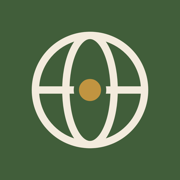
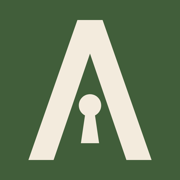
Usa só o sistema do Villa, sem a marca anterior do Global Village
O globo sai de uso. O logotipo passa a ser o monograma do Villa com o nome em Newsreader, o ícone é o favicon do Villa e as peças seguem os componentes Cover, CabecalhoArtigo, Carimbo e o verso do baralho. O botão principal do site fica em verde-veneziana.

Changed region(s): [[0.1389, 0.1111, 0.8611, 0.8889]]

diff --git a/brand/newsletter/src/edicao.html b/brand/newsletter/src/edicao.html
@@ -3,38 +3,52 @@
 <head>
 <meta charset="utf-8">
 <style>
-  /* Imagem de abertura de uma edição, 1200 × 600, na identidade do Villa. O conteúdo vem da URL:
-     edicao.html?data=27%20de%20outubro%20de%202026&titulo=...&fato=...&fato=...  (de 3 a 5 "fato")
-     A data sai em Courier Prime e violeta-carimbo, a única marca de carimbo da peça. */
+  /* Imagem de abertura de uma edição, 1200 × 600. Segue o CabecalhoArtigo do Villa: rótulo à esquerda, carimbo à direita, título, fio e os fatos.
+     O conteúdo vem da URL: edicao.html?data=27%20de%20outubro%20de%202026&titulo=...&fato=...  (de 3 a 5 "fato").
+     A data vira carimbo (27.X.2026) quando está em português ou inglês por extenso, ou no formato AAAA-MM-DD. */
   @font-face { font-family: "Newsreader"; src: url("../../../fonts/Newsreader-Variable.woff2") format("woff2"); font-weight: 200 800; }
   @font-face { font-family: "Archivo"; src: url("../../../fonts/Archivo-Variable.woff2") format("woff2"); font-weight: 100 900; }
   @font-face { font-family: "Courier Prime"; src: url("../../../fonts/CourierPrime-Bold.woff2") format("woff2"); font-weight: 700; }
   html, body { margin: 0; width: 1200px; height: 600px; background: #F3EBDD; color: #1E1A16; overflow: hidden; font-family: Archivo, sans-serif; }
-  .globe { position: absolute; right: 64px; top: 112px; width: 248px; height: 248px; }
-  .page { position: absolute; inset: 0; padding: 56px 64px; box-sizing: border-box; display: flex; flex-direction: column; }
-  .top { display: flex; align-items: center; justify-content: space-between; border-bottom: 2px solid #1E1A16; padding-bottom: 20px; }
-  .top img { height: 52px; }
-  .date { font: 700 22px/1 "Courier Prime", monospace; letter-spacing: .06em; text-transform: uppercase; color: #55478A; }
-  h1 { font: 500 74px/1.02 Newsreader, Georgia, serif; font-variation-settings: "opsz" 72; letter-spacing: -.01em; margin: 44px 0 0; max-width: 860px; }
+  .page { position: absolute; inset: 0; padding: 48px 64px; box-sizing: border-box; display: flex; flex-direction: column; gap: 16px; }
+  .top { display: flex; align-items: center; justify-content: space-between; }
+  .rotulo { display: inline-flex; align-items: center; gap: 10px; font: 700 17px/20px Archivo, sans-serif; letter-spacing: 2px; text-transform: uppercase; color: #5E5547; }
+  .rotulo svg { height: 22px; width: auto; fill: #1E1A16; }
+  .carimbo { font: 700 18px/22px "Courier Prime", monospace; letter-spacing: 1.2px; text-transform: uppercase; color: #55478A; }
+  h1 { font: 500 76px/1.02 Newsreader, Georgia, serif; font-variation-settings: "opsz" 72; letter-spacing: -.5px; margin: 28px 0 0; max-width: 1000px; }
   h1.long { font-size: 62px; }
-  .topics { margin-top: auto; display: flex; gap: 20px; }
-  .t { flex: 1; min-width: 0; border-top: 6px solid #C19440; padding-top: 14px; }
-  .t b { display: block; font: 700 30px/1 Archivo, sans-serif; color: #7A5718; }
-  .t span { display: block; margin-top: 8px; font-weight: 600; font-size: 20px; line-height: 1.3; }
-  .many .t span { font-size: 17px; }
+  hr { border: 0; border-top: 1px solid #CDBFA6; margin: auto 0 0; width: 100%; }
+  .topics { display: flex; gap: 24px; padding-top: 8px; }
+  .t { flex: 1; min-width: 0; }
+  .t b { display: block; font: 700 28px/28px Archivo, sans-serif; color: #7A5718; }
+  .t span { display: block; margin-top: 10px; font: 400 21px/28px Newsreader, serif; font-variation-settings: "opsz" 16; }
+  .many .t span { font-size: 18px; line-height: 24px; }
 </style>
 </head>
 <body>
-  <svg class="globe" viewBox="0 0 120 120" aria-hidden="true"><circle cx="60" cy="60" r="52" fill="none" stroke="#CDBFA6" stroke-width="3"/><ellipse cx="60" cy="60" rx="23" ry="52" fill="none" stroke="#CDBFA6" stroke-width="3"/><line x1="8" y1="60" x2="112" y2="60" stroke="#CDBFA6" stroke-width="3"/></svg>
   <div class="page">
-    <div class="top"><img src="../../../gv-logo-dark.png" alt="Global Village"><span class="date" id="date"></span></div>
+    <div class="top">
+      <span class="rotulo"><svg viewBox="-6 -6 100 112" aria-hidden="true"><polygon points="35,0 53,0 88,100 70,100 44,24 18,100 0,100"/><circle cx="44" cy="61" r="8"/><polygon points="41.0,64.2 47.0,64.2 50.5,88 37.5,88"/></svg>Global Village</span>
+      <span class="carimbo" id="date"></span>
+    </div>
     <h1 id="title"></h1>
+    <hr>
     <div class="topics" id="topics"></div>
   </div>
 <script>
   const q = new URLSearchParams(location.search);
+  const ROM = ["I","II","III","IV","V","VI","VII","VIII","IX","X","XI","XII"];
+  const MES = {janeiro:1,fevereiro:2,"março":3,marco:3,abril:4,maio:5,junho:6,julho:7,agosto:8,setembro:9,outubro:10,novembro:11,dezembro:12,
+    january:1,february:2,march:3,april:4,may:5,june:6,july:7,august:8,september:9,october:10,november:11,december:12};
+  function carimbo(s) {
+    const t = s.trim().toLowerCase(); let m;
+    if ((m = t.match(/^(\d{4})-(\d{2})-(\d{2})$/))) return +m[3] + "." + ROM[m[2] - 1] + "." + m[1];
+    if ((m = t.match(/^(\d{1,2})(?: de)? ([a-zç]+)(?: de)?,? (\d{4})$/)) && MES[m[2]]) return m[1] + "." + ROM[MES[m[2]] - 1] + "." + m[3];
+    if ((m = t.match(/^([a-z]+) (\d{1,2}),? (\d{4})$/)) && MES[m[1]]) return m[2] + "." + ROM[MES[m[1]] - 1] + "." + m[3];
+    return s;
+  }
   const fatos = q.getAll("fato").slice(0, 5);
-  document.getElementById("date").textContent = q.get("data") || "";
+  document.getElementById("date").textContent = carimbo(q.get("data") || "");
   const h = document.getElementById("title");
   h.textContent = q.get("titulo") || "";
   if (h.textContent.length > 40) h.classList.add("long");

diff --git a/index.html b/index.html
@@ -23,7 +23,7 @@
 <link rel="preload" href="fonts/Newsreader-Variable.woff2" as="font" type="font/woff2" crossorigin>
 <link rel="preload" href="fonts/Archivo-Variable.woff2" as="font" type="font/woff2" crossorigin>
 <style>
-/* Identidade do Villa (brand/villa/tokens.css): tinta sobre papel, cantos retos, sem sombras nem degradês. O verde-veneziana marca links, botões e estados ativos; o ocre-airbel só aparece como preenchimento (o disco do símbolo, a faixa da newsletter) e vira ocre-texto quando precisa ser letra. */
+/* Identidade do Villa (brand/villa/tokens.css): tinta sobre papel, cantos retos, sem sombras nem degradês. O verde-veneziana marca links, botões e estados ativos; o ocre-airbel só aparece como preenchimento (a faixa da newsletter) e vira ocre-texto quando precisa ser letra. */
 @font-face{font-family:"Newsreader";src:url("fonts/Newsreader-Variable.woff2") format("woff2");font-weight:200 800;font-style:normal;font-display:swap}
 @font-face{font-family:"Newsreader";src:url("fonts/Newsreader-Italic-Variable.woff2") format("woff2");font-weight:200 800;font-style:italic;font-display:swap}
 @font-face{font-family:"Archivo";src:url("fonts/Archivo-Variable.woff2") format("woff2");font-weight:100 900;font-style:normal;font-display:swap}
@@ -97,8 +97,8 @@ nav.main a[aria-current="page"]{border-bottom-color:var(--signal)}
 
 /* controls */
 .btn{display:inline-flex;align-items:center;gap:8px;min-height:48px;padding:0 20px;font:inherit;font-weight:700;font-size:15px;text-decoration:none;cursor:pointer;border:1.5px solid var(--ink);background:transparent;color:var(--ink)}
-.btn.primary{background:var(--ink);color:var(--paper)}
-.btn.primary:hover{background:var(--signal);border-color:var(--signal);color:var(--signal-ink)}
+.btn.primary{background:var(--signal);border-color:var(--signal);color:var(--signal-ink)}
+.btn.primary:hover{background:var(--ink);border-color:var(--ink);color:var(--paper)}
 .btn:hover{color:inherit}
 .pills{display:flex;flex-wrap:wrap;gap:8px}
 .pill{min-height:44px;padding:0 14px;font:inherit;font-size:14px;font-weight:600;cursor:pointer;border:1.5px solid var(--ink);background:transparent;color:var(--ink)}
@@ -214,10 +214,10 @@ section.block{padding-block:48px}
 .nl .wrap{display:flex;flex-wrap:wrap;gap:24px 48px;align-items:center;justify-content:space-between;padding-block:48px}
 .nl form{flex:1 1 380px;display:flex;flex-wrap:wrap;gap:10px}
 .nl input{flex:1 1 240px;min-height:52px;border:2px solid var(--ink);padding:0 16px;font:inherit;font-size:16px;background:var(--surface);color:var(--ink)}
-.nl button{min-height:52px;padding:0 24px;background:var(--ink);color:var(--paper);border:0;font:inherit;font-weight:700;font-size:16px;cursor:pointer}
+.nl button{min-height:52px;padding:0 24px;background:var(--signal);color:var(--signal-ink);border:0;font:inherit;font-weight:700;font-size:16px;cursor:pointer}
 .nl a{color:var(--ink)}
 .nl .nl-cta{flex:1 1 380px;display:flex;flex-direction:column;gap:10px;align-items:flex-start}
-.nl .nl-go{display:inline-flex;align-items:center;min-height:52px;padding:0 24px;background:var(--ink);color:var(--paper);font-weight:700;font-size:16px;text-decoration:none}
+.nl .nl-go{display:inline-flex;align-items:center;min-height:52px;padding:0 24px;background:var(--signal);color:var(--signal-ink);font-weight:700;font-size:16px;text-decoration:none}
 .ok-msg{font-weight:700}
 .err-msg{font-weight:700;margin:0 0 8px}
 .checks{display:flex;flex-wrap:wrap;gap:10px}
@@ -304,7 +304,7 @@ section.block{padding-block:48px}
 .wrow{display:flex;flex-direction:column;gap:2px;padding:8px 0;border-top:1px solid var(--soft);text-decoration:none;font-size:14px}
 .nl-mini{background:var(--ocre);border-color:var(--ocre);color:var(--ink)}
 .nl-mini input{min-height:46px;border:2px solid var(--ink);padding:0 12px;font:inherit;background:var(--surface);color:var(--ink)}
-.nl-mini .btn.primary{background:var(--ink);color:var(--paper);border-color:var(--ink)}
+.nl-mini .btn.primary{background:var(--signal);color:var(--signal-ink);border-color:var(--signal)}
 .toast{position:fixed;left:50%;bottom:calc(env(safe-area-inset-bottom,0px) + 20px);transform:translateX(-50%);background:var(--ink);color:var(--paper);padding:12px 18px;font-weight:700;font-size:14px;z-index:90}
 footer.site{border-top:2px solid var(--ink);margin-top:24px}
 footer.site .cols{display:grid;gap:28px;grid-template-columns:repeat(auto-fit,minmax(min(100%,200px),1fr));padding-block:40px}

diff --git a/brand/site/src/og-image.html b/brand/site/src/og-image.html
@@ -3,30 +3,33 @@
 <head>
 <meta charset="utf-8">
 <style>
-  /* Prévia de link do site, 1200 × 630, na identidade do Villa. */
+  /* Prévia de link do site, 1200 × 630. Segue o componente Cover do Villa: a fachada em blocos à direita e o nome em Newsreader à esquerda. */
   @font-face { font-family: "Newsreader"; src: url("../../../fonts/Newsreader-Variable.woff2") format("woff2"); font-weight: 200 800; }
   @font-face { font-family: "Archivo"; src: url("../../../fonts/Archivo-Variable.woff2") format("woff2"); font-weight: 100 900; }
   html, body { margin: 0; width: 1200px; height: 630px; background: #F3EBDD; color: #1E1A16; overflow: hidden; }
-  .page { position: absolute; inset: 0; padding: 60px 72px 0; box-sizing: border-box; display: flex; flex-direction: column; }
-  .top { display: flex; align-items: center; justify-content: space-between; border-bottom: 2px solid #1E1A16; padding-bottom: 22px; }
-  .top img { height: 64px; display: block; }
-  .kicker { font: 700 19px/1 Archivo, sans-serif; letter-spacing: .14em; text-transform: uppercase; color: #415E3A; }
-  h1 { font: 500 76px/1.02 Newsreader, Georgia, serif; font-variation-settings: "opsz" 72; letter-spacing: -.01em; margin: 44px 0 0; max-width: 1000px; }
-  p { font: 400 28px/1.4 Newsreader, serif; font-variation-settings: "opsz" 16; margin: 24px 0 0; max-width: 940px; color: #5E5547; }
-  .globe { position: absolute; right: -150px; bottom: -190px; width: 520px; height: 520px; }
-  .band { position: absolute; left: 0; right: 0; bottom: 0; height: 18px; background: #C19440; }
+  svg.fachada { position: absolute; inset: 0; }
+  .txt { position: absolute; left: 72px; top: 72px; bottom: 72px; width: 560px; display: flex; flex-direction: column; }
+  .rotulo { font: 700 16px/20px Archivo, sans-serif; letter-spacing: 2px; text-transform: uppercase; color: #5E5547; }
+  .nome { font: 500 132px/.92 Newsreader, Georgia, serif; font-variation-settings: "opsz" 72; letter-spacing: -2.5px; margin-top: auto; }
+  .linha { font: 400 24px/34px Newsreader, serif; font-style: normal; font-variation-settings: "opsz" 16; color: #5E5547; margin-top: 24px; max-width: 520px; }
 </style>
 </head>
 <body>
-  <svg class="globe" viewBox="0 0 120 120" aria-hidden="true"><circle cx="60" cy="60" r="52" fill="none" stroke="#CDBFA6" stroke-width="3"/><ellipse cx="60" cy="60" rx="23" ry="52" fill="none" stroke="#CDBFA6" stroke-width="3"/><line x1="8" y1="60" x2="112" y2="60" stroke="#CDBFA6" stroke-width="3"/></svg>
-  <div class="page">
-    <div class="top">
-      <img src="../../../gv-logo-dark.png" alt="Global Village">
-      <span class="kicker">Analysis in five languages</span>
-    </div>
-    <h1>Understand the world through the lens of liberal democracy</h1>
-    <p>Analysts, think tanks, publications and films, each piece summarised in your language with a link to the original.</p>
+  <svg class="fachada" width="1200" height="630" viewBox="0 0 1200 630" aria-hidden="true">
+    <rect x="680" y="0" width="360" height="630" fill="#C19440"/>
+    <g fill="#415E3A">
+      <rect x="728" y="124" width="48" height="72"/><rect x="836" y="124" width="48" height="72"/><rect x="944" y="124" width="48" height="72"/>
+      <rect x="728" y="279" width="48" height="72"/><rect x="836" y="279" width="48" height="72"/><rect x="944" y="279" width="48" height="72"/>
+      <rect x="728" y="434" width="48" height="72"/><rect x="836" y="434" width="48" height="72"/><rect x="944" y="434" width="48" height="72"/>
+    </g>
+    <rect x="1040" y="0" width="160" height="380" fill="#1E1A16"/>
+    <rect x="1040" y="380" width="160" height="250" fill="#E8DCC6"/>
+    <line x1="1040" y1="530" x2="1200" y2="530" stroke="#CDBFA6" stroke-width="1"/>
+  </svg>
+  <div class="txt">
+    <span class="rotulo">Analysis in five languages</span>
+    <div class="nome">Global<br>Village</div>
+    <p class="linha">The contemporary world through the lens of liberal democracy.</p>
   </div>
-  <div class="band"></div>
 </body>
 </html>

diff --git a/brand/substack/src/secao.html b/brand/substack/src/secao.html
@@ -3,25 +3,20 @@
 <head>
 <meta charset="utf-8">
 <style>
-  /* Arte quadrada das seções do Global Village no Substack do Projeto Villa, 1024 × 1024, sobre verde-veneziana como o favicon do Villa.
-     O rótulo vem da URL: secao.html?rotulo=Diário  ou  secao.html?rotulo=Daily */
+  /* Arte quadrada das seções do Global Village no Substack do Projeto Villa, 1024 × 1024. Segue o verso do baralho do Villa:
+     verde-veneziana com o monograma em sobre-verde. O rótulo vem da URL: secao.html?rotulo=Diário  ou  secao.html?rotulo=Daily */
   @font-face { font-family: "Newsreader"; src: url("../../../fonts/Newsreader-Variable.woff2") format("woff2"); font-weight: 200 800; }
   @font-face { font-family: "Archivo"; src: url("../../../fonts/Archivo-Variable.woff2") format("woff2"); font-weight: 100 900; }
   html, body { margin: 0; width: 1024px; height: 1024px; background: #415E3A; color: #F3EBDD; overflow: hidden; }
-  .page { position: absolute; inset: 0; display: flex; flex-direction: column; align-items: center; justify-content: center; gap: 0; }
-  svg { width: 440px; height: 440px; }
-  h1 { font: 500 128px/1 Newsreader, Georgia, serif; font-variation-settings: "opsz" 72; letter-spacing: -.01em; margin: 56px 0 0; }
-  .label { margin-top: 36px; padding-top: 28px; border-top: 6px solid #C19440; font: 700 52px/1 Archivo, sans-serif; letter-spacing: .22em; text-transform: uppercase; color: #F3EBDD; padding-left: .22em; }
+  .page { position: absolute; inset: 0; display: flex; flex-direction: column; align-items: center; justify-content: center; }
+  svg { height: 380px; width: auto; fill: #F3EBDD; }
+  h1 { font: 500 124px/1 Newsreader, Georgia, serif; font-variation-settings: "opsz" 72; letter-spacing: -2.5px; margin: 64px 0 0; }
+  .label { margin-top: 40px; font: 700 44px/1 Archivo, sans-serif; letter-spacing: 9px; text-transform: uppercase; padding-left: 9px; }
 </style>
 </head>
 <body>
   <div class="page">
-    <svg viewBox="0 0 120 120" aria-hidden="true">
-      <circle cx="60" cy="60" r="52" fill="none" stroke="#F3EBDD" stroke-width="7"/>
-      <ellipse cx="60" cy="60" rx="23" ry="52" fill="none" stroke="#F3EBDD" stroke-width="7"/>
-      <line x1="8" y1="60" x2="112" y2="60" stroke="#F3EBDD" stroke-width="7"/>
-      <circle cx="60" cy="60" r="13" fill="#C19440" stroke="#415E3A" stroke-width="5"/>
-    </svg>
+    <svg viewBox="-6 -6 100 112" aria-hidden="true"><polygon points="35,0 53,0 88,100 70,100 44,24 18,100 0,100"/><circle cx="44" cy="61" r="8"/><polygon points="41.0,64.2 47.0,64.2 50.5,88 37.5,88"/></svg>
     <h1>Global Village</h1>
     <div class="label" id="label"></div>
   </div>

diff --git a/brand/global-village/src/lockup.html b/brand/global-village/src/lockup.html
@@ -3,31 +3,21 @@
 <head>
 <meta charset="utf-8">
 <style>
-  /* Logotipo horizontal: símbolo + nome, na identidade do Villa. #light inverte as cores para fundos escuros. */
+  /* Logotipo do Global Village feito só com o sistema do Villa: o monograma do Villa (brand/villa/logos/villa-monograma.svg, copiado sem alteração)
+     e o nome em Newsreader 500, como o nome Villa na capa do sistema. #light usa papel, para tinta e verde-veneziana. */
   @font-face { font-family: "Newsreader"; src: url("../../../fonts/Newsreader-Variable.woff2") format("woff2"); font-weight: 200 800; }
-  html, body { margin: 0; width: 720px; height: 160px; background: transparent; overflow: hidden; }
-  .lockup { height: 160px; display: flex; align-items: center; gap: 26px; padding-left: 8px; }
-  .lockup svg { width: 120px; height: 120px; flex: none; }
-  .name { font: 500 90px/1 "Newsreader", Georgia, serif; font-variation-settings: "opsz" 72; letter-spacing: -0.01em; color: #1E1A16; white-space: nowrap; }
-  .light .name { color: #F3EBDD; }
+  html, body { margin: 0; width: 700px; height: 160px; background: transparent; overflow: hidden; }
+  .lockup { height: 160px; display: flex; align-items: center; gap: 30px; padding-left: 8px; color: #1E1A16; }
+  .lockup svg { height: 112px; width: auto; flex: none; fill: currentColor; }
+  .name { font: 500 92px/1 "Newsreader", Georgia, serif; font-variation-settings: "opsz" 72; letter-spacing: -2px; white-space: nowrap; }
+  .light { color: #F3EBDD; }
 </style>
 </head>
 <body>
 <div class="lockup" id="l">
-  <svg viewBox="0 0 120 120" aria-hidden="true">
-    <circle cx="60" cy="60" r="52" fill="none" stroke="#1E1A16" stroke-width="7"/>
-    <ellipse cx="60" cy="60" rx="23" ry="52" fill="none" stroke="#1E1A16" stroke-width="7"/>
-    <line x1="8" y1="60" x2="112" y2="60" stroke="#1E1A16" stroke-width="7"/>
-    <circle id="d" cx="60" cy="60" r="13" fill="#C19440" stroke="#F3EBDD" stroke-width="5"/>
-  </svg>
+  <svg viewBox="-6 -6 100 112" aria-hidden="true"><polygon points="35,0 53,0 88,100 70,100 44,24 18,100 0,100"/><circle cx="44" cy="61" r="8"/><polygon points="41.0,64.2 47.0,64.2 50.5,88 37.5,88"/></svg>
   <span class="name">Global Village</span>
 </div>
-<script>
-  if (location.hash === "#light") {
-    document.getElementById("l").classList.add("light");
-    document.querySelectorAll("circle[fill=none], ellipse, line").forEach(e => e.setAttribute("stroke", "#F3EBDD"));
-    document.getElementById("d").setAttribute("stroke", "#1E1A16");
-  }
-</script>
+<script>if (location.hash === "#light") document.getElementById("l").classList.add("light");</script>
 </body>
 </html>

diff --git a/brand/global-village/README.md b/brand/global-village/README.md
@@ -1,20 +1,29 @@
 # Global Village · identidade visual
 
-O Global Village é um projeto do Villa e segue o sistema visual do Villa, cujos tokens, fontes, marcas e naipes estão em `brand/villa/`. O que é próprio do Global Village é o símbolo e o nome.
+O Global Village é um projeto do Villa e usa só o que existe no sistema visual do Villa, guardado em `brand/villa/` (tokens, marcas e naipes) e em `fonts/`. Desde 23/11/2026 não há marca própria. O globo e o terracota da identidade anterior saíram de uso.
 
-A ideia vem de McLuhan, o mundo como uma aldeia onde muitas vozes se encontram. O símbolo é um globo desenhado com três linhas (o contorno, um meridiano e o equador), e o disco no cruzamento é a praça onde essas vozes se encontram. Desde novembro de 2026 o disco é ocre-airbel, o mesmo preenchimento dos discos de naipe do Villa, e é a única referência perceptível ao sistema do Villa em cada peça.
+## Marca
 
-## Arquivos
+- O logotipo é o monograma do Villa (`brand/villa/logos/villa-monograma.svg`, copiado sem alteração) seguido do nome Global Village em Newsreader 500, do mesmo jeito que o nome Villa aparece na capa do sistema.
+- O ícone é o favicon do Villa, o monograma em papel sobre verde-veneziana.
+- O nome se escreve sempre Global Village, com iniciais maiúsculas, e em português leva artigo masculino (o Global Village).
 
 | Arquivo | Uso |
 | --- | --- |
-| `gv-logo-dark.png` | Logotipo horizontal em tinta, sobre papel e papel-2 |
-| `gv-logo-light.png` | Logotipo horizontal em papel, sobre tinta e verde-veneziana |
-| `gv-symbol-dark.svg`, `gv-symbol-light.svg` | Símbolo sozinho, em vetor |
-| `gv-icon-512.png`, `gv-icon-1024.png` | Ícone quadrado, símbolo em papel sobre verde-veneziana, como o favicon do Villa |
-| `src/` | Fontes HTML das imagens, renderizadas com o Chrome headless |
+| `gv-logo-dark.png` | Logotipo em tinta, sobre papel, papel-2 e ocre-airbel |
+| `gv-logo-light.png` | Logotipo em papel, sobre tinta e verde-veneziana |
+| `gv-icon-512.png`, `gv-icon-1024.png` | Ícone quadrado (favicon, Substack, redes) |
+| `src/` | Fontes das imagens, renderizadas com o Chrome headless |
 
-O nome se escreve sempre Global Village, com iniciais maiúsculas, e em português leva artigo masculino (o Global Village). O símbolo nunca aparece sem o nome em tamanhos acima do ícone.
+## Peças
+
+| Peça | Molde | Componente do Villa que segue |
+| --- | --- | --- |
+| Prévia de link do site | `brand/site/src/og-image.html` | Cover, com a fachada em blocos |
+| Imagem da edição diária | `brand/newsletter/src/edicao.html` | CabecalhoArtigo, com a data em Carimbo (`23.XI.2026`) |
+| Arte das seções no Substack | `brand/substack/src/secao.html` | Verso do baralho, verde-veneziana com o monograma |
+
+Cada peça tem uma só referência perceptível ao sistema (a fachada, o carimbo ou o verde com o monograma).
 
 ## Cores
 
@@ -24,28 +33,26 @@ São os tokens do Villa (`brand/villa/tokens.css`).
 | --- | --- | --- |
 | papel | `#F3EBDD` | Fundo de página e de cartões |
 | papel-2 | `#E8DCC6` | Faixas, notas do editor, caixas laterais |
-| tinta | `#1E1A16` | Texto, títulos, fios fortes, botão escuro |
-| tinta-suave | `#5E5547` | Metadados e texto secundário |
-| linha | `#CDBFA6` | Fios finos e o globo em marca-d'água. Nunca texto |
-| verde-veneziana | `#415E3A` | Links, idioma ativo, avatares, foco de teclado e o ícone |
-| ocre-airbel | `#C19440` | Só preenchimento, com tinta por cima. O disco do símbolo, a faixa da newsletter e os fios dos fatos da edição |
+| tinta | `#1E1A16` | Texto, títulos, fios fortes |
+| tinta-suave | `#5E5547` | Metadados, rótulos e texto secundário |
+| linha | `#CDBFA6` | Fios finos. Nunca texto |
+| verde-veneziana | `#415E3A` | Botão principal, idioma ativo, avatares, foco de teclado e ícone |
+| ocre-airbel | `#C19440` | Só preenchimento, com tinta por cima. A faixa da newsletter e a fachada da prévia |
 | ocre-texto | `#7A5718` | Números de destaque (radar, estatísticas, fatos da edição) |
-| violeta-carimbo | `#55478A` | A data da imagem da edição, em Courier Prime. Uma vez por peça |
+| violeta-carimbo | `#55478A` | O carimbo da imagem da edição. Uma vez por peça |
 
 O Villa não usa cor para erro nem para alerta.
 
 ## Tipografia
 
-As fontes ficam em `fonts/` na raiz do repositório e o site as carrega dali, sem depender do Google Fonts.
-
 | Fonte | Uso |
 | --- | --- |
 | Newsreader | Títulos (peso 500), resumos e textos de leitura |
 | Archivo | Interface, rótulos em caixa-alta, botões, navegação e números de destaque |
-| Courier Prime | Datas do feed e da edição. Nunca frases longas |
+| Courier Prime | Datas do feed e carimbos. Nunca frases longas |
 
 ## Regras do Villa aplicadas aqui
 
 - Cantos retos em tudo, inclusive avatares e botões. Sem sombras e sem degradês.
 - Foco de teclado em anel contínuo de 2px, com 2px de afastamento, em verde-veneziana.
-- O Global Village não usa os naipes do Villa. Os quatro temas do site (democracia, geopolítica, economia e tecnologia) não correspondem às famílias editoriais dos naipes.
+- Nenhum ícone novo. Os naipes do Villa marcam artigos do Villa e não são usados nos temas do Global Village.

diff --git a/CLAUDE.md b/CLAUDE.md
@@ -13,7 +13,7 @@ Global Village é um agregador internacional de análises do mundo contemporâne
 - O painel [Fontes do Global Village](https://claude.ai/artifact/UbTKDWb3ELx256Mrq5FmtT) mostra quais fontes estão ativas, paradas, sem feed ou com o feed fora do ar, e os autores fora da base. Os dados saem de `tools/painel-fontes.py`, e a rotina das 6h os atualiza.
 - O protótipo [Pergunte ao Global Village](https://claude.ai/artifact/VvCZeXeFfD2pqAjifguVve) é um agente conversacional no claude.ai, com o código em `agente/index.html`. Ele responde só com base nas análises do site e no arquivo dos feeds das fontes aprovadas, separando o que foi curado do que não foi, e usa o Claude da conta de quem pergunta. A base sai de `tools/base-agente.py`, e a rotina das 6h a atualiza. O arquivo dos feeds fica em `dados/`, fora do Git, porque o conteúdo é de terceiros.
 - `localStorage` só guarda conveniências do leitor (idioma, seguidos, salvos), sempre com try/catch.
-- Logotipo em `gv-logo-dark.png` (fundos claros) e `gv-logo-light.png` (fundos escuros). O guia da marca, com cores e fontes, está em `brand/global-village/README.md`. Desde 23/11/2026 o Global Village segue o sistema visual do Villa (tokens, marcas e naipes em `brand/villa/`, fontes em `fonts/`).
+- Logotipo em `gv-logo-dark.png` (fundos claros) e `gv-logo-light.png` (fundos escuros). O guia da marca, com cores e fontes, está em `brand/global-village/README.md`. Desde 23/11/2026 o Global Village usa só o sistema visual do Villa (tokens, marcas e naipes em `brand/villa/`, fontes em `fonts/`). O logotipo é o monograma do Villa com o nome em Newsreader, e o globo da identidade anterior saiu de uso.
 - Ícones em `favicon.png` e `apple-touch-icon.png`. A prévia de link usa `og-image.png`, cuja fonte fica em `brand/site/src/`. As tags `og:` usam o endereço absoluto do GitHub Pages e precisam ser trocadas se o domínio mudar.
 
 ## Nome
